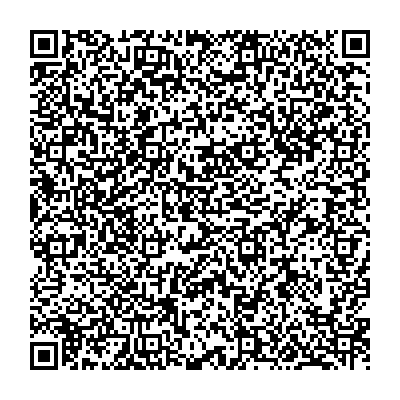
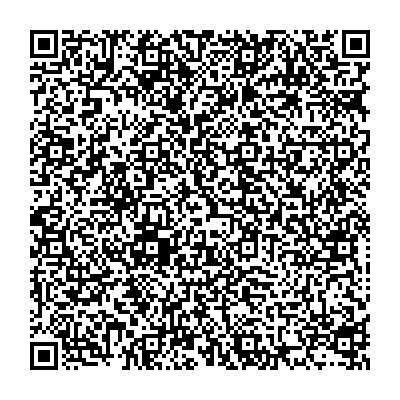
Signature changes

diff --git a/PA/1.0.0/README.md b/PA/1.0.0/README.md
@@ -4,19 +4,19 @@
 
 ### Diana Fernandez Rodriguez 2 doses of Pfizer
 
-HC1:NCFOXN%TSMAHN-HBWKT8U%WBZ$FT8Q9EHN9OU96MFOLX8 JQNG4:X9:KQZ7VCV4*XUA2PSGH.+H$NI4L6F$SPN1HQ12Y9L%HB+HC+HI$HAMOJ23.JT/JC1VC8II WJP*Q9ZIHAPZXI$MI1VCSWC%PDDIKAWC.XIU$J3$T4130DJ7UJQWT.+SXI1::OJ23N%D:XIBEIVG395EV3EVCK09D5WCFVA.QO5VA81K0ECM8CXVDC8C90JK.AKW00YO+DR-DP71AAKPCPP0%MW76NV6FF32OII7JSTNB95526SV4 96U96-Z7 ERQ+ML/59/5F-MS84328V35G-NS+MCA7G6M51R0ZQV8QSA799MGIR/Z6BCQ:BQ0 6S+4K9SLHPX 7KW6JINQ+MN/Q19QE8Q4PO3RF9TQH.16L6HRU/3C1BN$SV*ORPZ6N*0.I2A:R 9O6RD37GQJD/*LNVD44G9-PA/B+1MXI2L0LQ2SD$AXTR8ADL7JC%TCKH4+C%/UU10QX5S4
+HC1:NCFOXN%TSMAHN-HBWKT8U%WBZ$FT8Q9EHYVNU96MFOLX8TMQ%BS:X9CKQS+SCV4*XUA2PSGH.+H$NI4L67TCPN1HQ12Y9EW72E88SOQ+Q$DQS75S5T0/DG9CJZI202YZJ0PIBZIXJA  CG8C5DLW9C.PDS1JZEBJVT1LT/+TIZI.EJJ1450M7U6 CO:45HOJ+PB/VSQOL9DLKWCZ3EBKDYGIZ J$XI4OIMEDTJCJKDLEDL9CZTAE9IK%MLTQ9R0+L69/9-3AKI63ZM7KQQ00F%D$ZJ*DJWP42W5P.QAL6L/5R95GAM1Z5R35 96NY4WG9/35P*KFO6%T69F5+Y5OT4I0PQNQ1A6-Z7Z$KI.PHHPQNQ+-O0PPXHP.Y4WVQA$Q2I5FT5D75W9AV88G647F8WFW8KF:1QI:72$FM G/OVBVM%YB:5I9:BCWP%WKTMCFWMDEGC0IWP6FAN-PM:5DD6UIP6DPAQBR4$D6FQ+DJVHM*N8R3K1*R$F7R30ACU74
 
 ![VAC1](VAC1.png)
 
 ###  Avelino Sanchez Zapata 2 doses ASTRAZENECA
 
-HC1:NCF1Y20088D0PS3RPU/%O/-P3FI:MGV/93FUE6WAPHKI5.YO7RG3OH7$N92KGNK6KP5NLEELMMP7Z4-EMB.K+Z2$I8I9H-JG0G2MW4QPBDSR2ZDZSOUZVI22AWSP2UJURQCR4KTHNVL$7.ZRF8D%/M/EP5VTYKSPWQFQ2STOM1MVRLW.2*CQ3S9%48-J81:5C99CR6112PO02+AL922QG XPVYGF+BV23XVO1S6*.S O4/3IX 35/PGZHZ 2XELU79MOQZE6BH0 GGY96Q/I2FG206ZX0KKG68CCNP:CL+3T /7T FZA4Y/AGDFMGOZEW1DL6H9D.1--A9.S*B2+VH.RJOVP2.MEQ20ZLK$9FF2/NTF6P4BF0ZI/$8DT5/T9.Z76NKXPKKJP50JGJ4HJO+JFQ/L.$QK$A.E3  0G9IZ/K2+RMXQ UR%6HY0U$26TAOHL3I/KXLL+*4T/B3/1PHV1$V.H3*XDAYFFYVSNF3DFDKVTE7JGRHWEKEN PT+E6QOFU%V-WF1+E
+HC1:NCFRW2B8O8D0%20V9707J5C10+PBHLV/9V$U1R7--ARZIRAI+49/QE.EUB N%QN $SCMS-P68EGKT0-S0 DT138BSA/118D977AKL885WE%HBJR4.H5IUUXOA$QDXME-9L/AM26 DUYTGQTS-/OP%LL9V70NJ7HS6H/NVW OLTBR$2K MNCHAFUZ50HB08BGC 10+0GB7X12 BTBBAGWOUEPD/4:S2MG4NBBAEGFUC+XG%DHZ EF*I.9TTJC4N41MN8J8ND0C23AMCF1FF$GBQ1M6CSC12W87NH6DJU+36IGX74DROREA 47T+OT4K3FB KI1T82VGQQ7-BK4JM0GIH0RK1HMWLQI5575YCCHDU*Z9:A1DEM*/SVW6DDD54OTT91WCBMJO05G0BVPU5IA PP:EFN:DUPF5Q1+00 3PAXR03V/1Q%:1*ZPR.VF01VXE+B7F7NW6EY0PO3G*ZN$:3U6IEAUS6LGWM1273977R6 IJ1/T/$V83I-NFSU3J3TB10LVNU1
 
 ![VAC2](VAC2.png)
 
 ### COVID TEST Andrés Espinoza
 
-HC1:NCFMX1B8O8D0C407DEJ.KJHLBSHXCH825 +JYMFY5AWMFDGI6GU7G9EYNV5U:CQA*BTP8O/PM2EQF5DUD8E4UNH4C8LKLC*OQAKCPKF.KAV4ELS6YF32AO27Y+SM+RH0O78KKOQGORVIP5BP2776:A1$3.NNF$1J/UDHRT*P%.9-2J2I3NEJ/PBOIEGMV2O8CGO8E0A24 98969336DA2KGG:G8RL8CB6EY084N1-CP3KLP2KUP5MT02P9FEI0NECIXULAOU-/83RPIOM4C17LO674%360S6IIA1HE9DBPWP-*0JO5QKIZ 8JP1:30SOHH/0V9GB114:CH$MB5TM52XH2JM2SLO3IOYA07706 GB/SV2NTEAS0E *Q:ZT4589$GKX2/G96PP2V4/:P$D317A+VABVE+JJ+B58.CJW9SQG4DN9 VVAOOS3V6Q5ZRBP7USDB0OXDRL0D22NJDRQAO:GT/+17U75.FOATW+35O4ERHA29.0CU2N:4WB.JVVTJATG5MFQV%:7UV1-2
+HC1:NCFMX1B8O8D0C400GE5YL.M3X%241113KH3FU.UPBK$4Q6YKTLUWRPBHNV5UY26T-J :19OJ+MG0DO.31ZG9TCL%3HVEDYJLC11P6H D5OK08NDSFS6YF$CQ%EA+XOT0HQ+TG7TH+KX+MH9RH4M8OS:F3+EJCXQ/JMHB7XHV:ENMN5URDW2RL-426S:D2/LG$IPOFRHSB:OK+32/WH.H1981QDP U80P46J2088YQBWVM2 JNJCW1SUQD%FLPX6DI1AX0BB1-A4*10SMGKAHOLHCIAGJ9MA2ZMRSNVX$M:M338D9FMWM5N5A/N2YYSPMVG:3UG4:44TDJQ1UNT70E2YHI358 .18/09300+0392I/AHHRUX2E.BMKLM6E2H6AUA7OVI*JAXI2JDV%BZU183L9MKANV :DA KQ2HYVRF 078EP1RLNLN.D:P5LFVI3MI$4.FQBCDAYDKD3TL1D.IB9N7AMXFG*+F4XOXMTO5DZCV3TF2/EEQ7-JNM*BXAS2/9M5GP1Q:28FSSF4
 
 ![TEST1](TEST1.png)
 

diff --git a/PA/1.2.1/README.md b/PA/1.2.1/README.md
@@ -5,10 +5,6 @@
 
 ### Recovery Jeremy Andersen
 
-HC1:NCFOXN%TSMAHN-HBWKT8U%WBZ$FT8Q.9HE3NU96MFOLX8 JQNUDTSJSPKGZHCV4*XUA2P-FHT-HNTI L61OAHTIDFGPCRHEPP8R4310OA+GANTICZUFOJ7LAXPMHQ1*P1.T1+ZE9W16IA394.L8322G*LAG5U*13ZCRALROFYT0M*4CZKHKB-43.E3KD3OAJ5AL5:4A93HKBLWTR13DU2/9TL4T.B9GYPVBEDN9.V5N6QEN9C9Q2YUTW530Q4T9 UPVF9$IE:NE$%HF/94O5QCEXQE8T1/9VVM9WI0 N3IC3Z83I77XW7+GVJUIJ/OC2TVBTEZM1FWY4H36WPZQYWAVFVKGE/FC3GCMVDW9HP%NV0VAPUQ/KEZP0YK4DFR27%FS6*OMD2EDVK4N*THA5EO4KA20MQPN3
+HC1:NCFOXN%TSMAHN-HPO4898U9R66DK61QG47X5QR9H9EOGI4ZEF%BM*4D7DSZL-MPW$NLEEEJCY S2%K9+PY+Q0R4U64SW65J6SV6DG0BZIE I2%K:XF03L/ZI4Q5%H0AN8XI0PZB+SGZXI551LDQV ONM5PRP-RGZJJTKLT1K5LO5B9-NT0 2$$0X4PCY0X:CZD5CC9T0HC+2CNN$2P0$8IGF5JNBPI$RUVT3EIA$SH $UBPI3$UF NQRH8PE/UIGSU%SQDVB7VBHM4YZQ4H9-T3JUB6SG-4W4PI%CG10H.+8V.G. 138NW38DLNZ26UP7QZRT4L4:5OE4$2CK08NW763WMVT*%E6ZMO:3.-U RMXVM:2N/4K3QD8AN-MREVP$ZN90S10E8NA/2F3DFM TA732+DYHD
 
 ![REC1](REC1.png)
-
-
-
-
